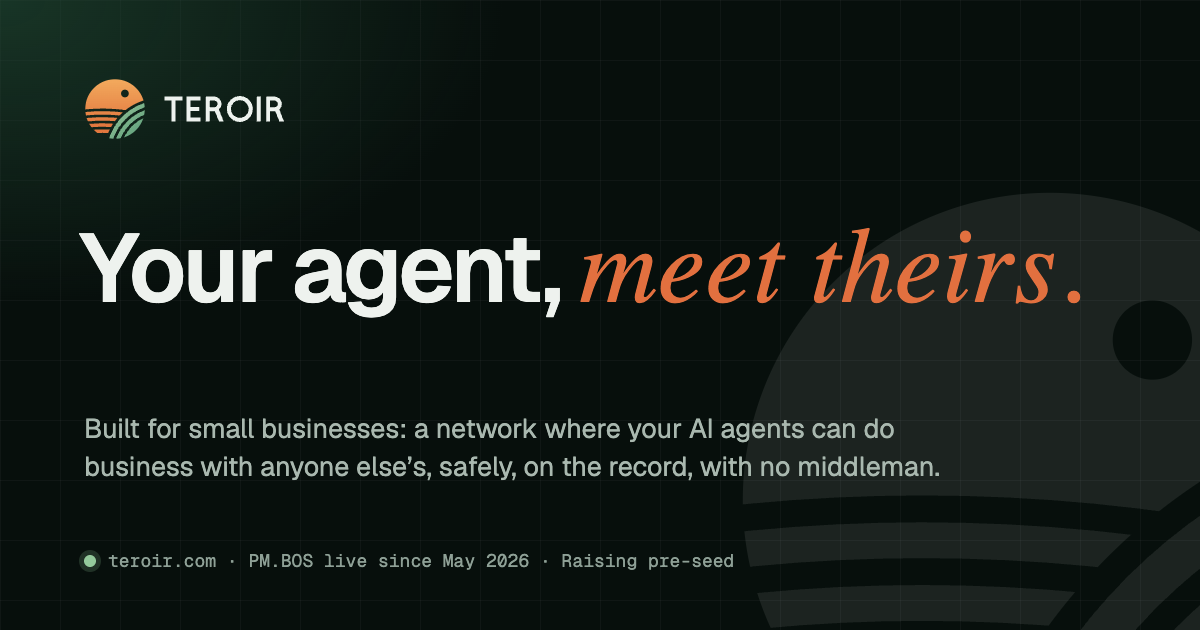
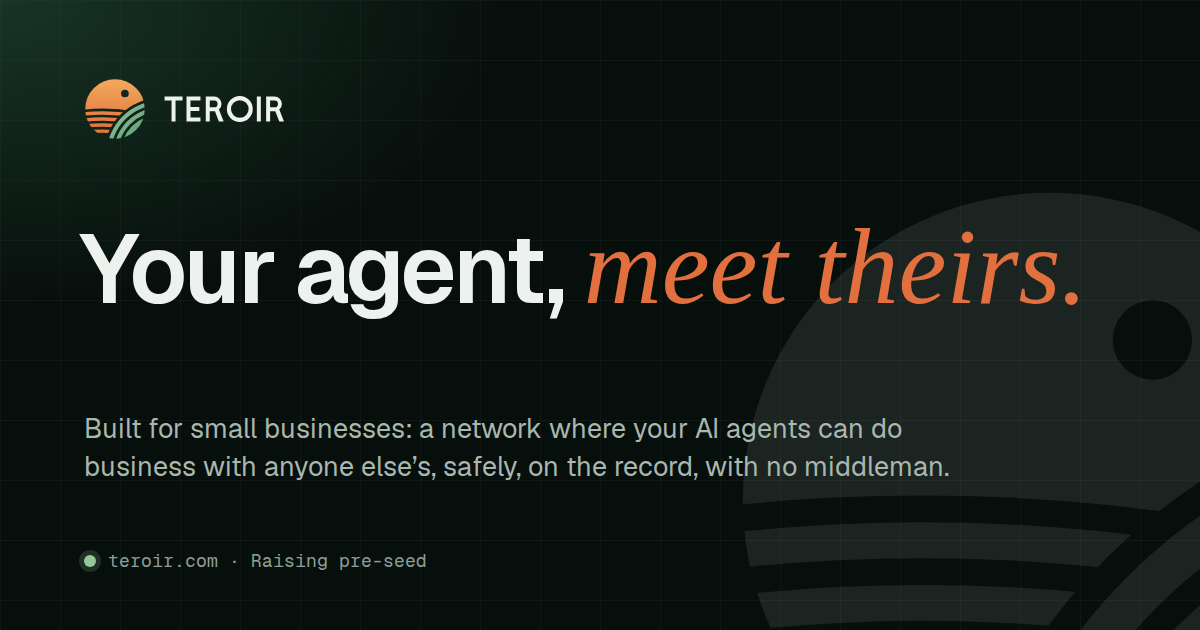
PM.BOS portfolio claims in past tense (owner-approved 11-18): ran a 218-room co-living portfolio in Houston and DFW from May to October 2026
- index, /talk, /property-management: present-tense 'has run / live since May 2026' replaced with the approved sentence
- /property-management: 'our first customer' -> 'our first project'
- stats: 'latest month' -> 'final month'; live-pulse dots removed from the date pills
- og.png share image: dropped 'PM.BOS live since May 2026'

Changed region(s): [[0.0925, 0.3619, 0.8942, 0.5127], [0.0617, 0.6635, 0.8017, 0.7841], [0.0925, 0.8746, 0.6167, 0.9048]]

diff --git a/index.html b/index.html
@@ -4,7 +4,7 @@
 <meta charset="utf-8">
 <meta name="viewport" content="width=device-width,initial-scale=1,viewport-fit=cover">
 <title>Teroir — AI systems built on real work</title>
-<meta name="description" content="Teroir builds AI systems for businesses and coaches people to use AI well. Our first system has run a 29-property, 218-room portfolio since May 2026, with no new hires.">
+<meta name="description" content="Teroir builds AI systems for businesses and coaches people to use AI well. PM.BOS ran a 218-room co-living portfolio in Houston and DFW from May to October 2026.">
 <meta name="theme-color" content="#F6F4EE">
 <meta name="color-scheme" content="light">
 <link rel="canonical" href="https://teroir.com/">
@@ -12,14 +12,14 @@
 <meta property="og:site_name" content="Teroir">
 <meta property="og:url" content="https://teroir.com/">
 <meta property="og:title" content="Teroir — AI systems built on real work">
-<meta property="og:description" content="Teroir builds AI systems for businesses and coaches people to use AI well. Our first system has run a 29-property, 218-room portfolio since May 2026, with no new hires.">
+<meta property="og:description" content="Teroir builds AI systems for businesses and coaches people to use AI well. PM.BOS ran a 218-room co-living portfolio in Houston and DFW from May to October 2026.">
 <meta property="og:image" content="https://teroir.com/og.png">
 <meta property="og:image:width" content="1200">
 <meta property="og:image:height" content="630">
 <meta property="og:image:alt" content="Teroir logo: a sun over terraced hills.">
 <meta name="twitter:card" content="summary_large_image">
 <meta name="twitter:title" content="Teroir — AI systems built on real work">
-<meta name="twitter:description" content="Teroir builds AI systems for businesses and coaches people to use AI well. Our first system has run a 29-property, 218-room portfolio since May 2026, with no new hires.">
+<meta name="twitter:description" content="Teroir builds AI systems for businesses and coaches people to use AI well. PM.BOS ran a 218-room co-living portfolio in Houston and DFW from May to October 2026.">
 <meta name="twitter:image" content="https://teroir.com/og.png">
 <link rel="icon" href="brand/favicon.svg" type="image/svg+xml">
 <link rel="icon" href="brand/favicon.png" type="image/png" sizes="32x32">
@@ -51,9 +51,9 @@
   <div class="hero-bg" aria-hidden="true"></div>
   <div class="wrap hero-in">
     <div class="hero-copy">
-      <a class="pill reveal" href="/property-management#proof"><span class="dot live"></span>Live since May 2026<span class="arrow" aria-hidden="true">→</span></a>
+      <a class="pill reveal" href="/property-management#proof">May to October 2026<span class="arrow" aria-hidden="true">→</span></a>
       <h1 class="reveal">AI that takes on the work <em>your team is stretched across.</em></h1>
-      <p class="lead reveal">Teroir builds AI systems for businesses and coaches people to use AI well. Our first system has run a 218-room property portfolio since May 2026, and the team grew it from 11 to 29 properties with no new hires.</p>
+      <p class="lead reveal">Teroir builds AI systems for businesses and coaches people to use AI well. PM.BOS ran a 218-room co-living portfolio in Houston and DFW from May to October 2026, and the team grew it from 11 to 29 properties with no new hires.</p>
       <div class="ctas reveal"><a class="btn btn-primary" href="/talk?for=business">Book a discovery call <span aria-hidden="true">→</span></a><a class="btn btn-ghost" href="#proof">See the results</a></div>
     </div>
   </div>
@@ -63,7 +63,7 @@
   <div class="wrap">
     <p class="eyebrow reveal">Our first project</p>
     <h2 id="proof-h" class="reveal">A co-living operator. <em>Same team, much bigger week.</em></h2>
-    <p class="sub reveal">29 properties and 218 rooms with shared kitchens and bathrooms. Since May 2026, the system we built has handled the operator's chores, tenant messages, maintenance requests and fines. We keep the client anonymous.</p>
+    <p class="sub reveal">PM.BOS ran a 218-room co-living portfolio in Houston and DFW from May to October 2026. Across 29 properties with shared kitchens and bathrooms, it handled the operator's chores, tenant messages, maintenance requests and fines. We keep the client anonymous.</p>
     <dl class="metrics reveal">
       <div class="metric">
         <dt>Properties, same team</dt>
@@ -83,7 +83,7 @@
       <div class="metric">
         <dt>Chore completion</dt>
         <dd><span class="num"><span class="from">63</span><span class="to-arrow" aria-label="rose to">→</span><span data-count="73" data-suffix="%">73%</span></span></dd>
-        <dd class="ctx">first month measured vs. latest month</dd>
+        <dd class="ctx">first month measured vs. final month</dd>
       </div>
     </dl>
     <p class="reveal"><a class="more" href="/property-management">Read the case study and watch the one-minute demo →</a></p>

diff --git a/property-management.html b/property-management.html
@@ -4,7 +4,7 @@
 <meta charset="utf-8">
 <meta name="viewport" content="width=device-width,initial-scale=1,viewport-fit=cover">
 <title>Case study: property management — Teroir</title>
-<meta name="description" content="Tenant messages, maintenance requests, chores and fines in one place. Live with a 29-property, 218-room co-living portfolio since May 2026.">
+<meta name="description" content="Tenant messages, maintenance requests, chores and fines in one place. PM.BOS ran a 218-room co-living portfolio in Houston and DFW from May to October 2026.">
 <meta name="theme-color" content="#F6F4EE">
 <meta name="color-scheme" content="light">
 <link rel="canonical" href="https://teroir.com/property-management">
@@ -12,14 +12,14 @@
 <meta property="og:site_name" content="Teroir">
 <meta property="og:url" content="https://teroir.com/property-management">
 <meta property="og:title" content="Case study: property management — Teroir">
-<meta property="og:description" content="Tenant messages, maintenance requests, chores and fines in one place. Live with a 29-property, 218-room co-living portfolio since May 2026.">
+<meta property="og:description" content="Tenant messages, maintenance requests, chores and fines in one place. PM.BOS ran a 218-room co-living portfolio in Houston and DFW from May to October 2026.">
 <meta property="og:image" content="https://teroir.com/og-demo.png">
 <meta property="og:image:width" content="1200">
 <meta property="og:image:height" content="630">
 <meta property="og:image:alt" content="Teroir's Housekeeping assistant answering a question, with a play button.">
 <meta name="twitter:card" content="summary_large_image">
 <meta name="twitter:title" content="Case study: property management — Teroir">
-<meta name="twitter:description" content="Tenant messages, maintenance requests, chores and fines in one place. Live with a 29-property, 218-room co-living portfolio since May 2026.">
+<meta name="twitter:description" content="Tenant messages, maintenance requests, chores and fines in one place. PM.BOS ran a 218-room co-living portfolio in Houston and DFW from May to October 2026.">
 <meta name="twitter:image" content="https://teroir.com/og-demo.png">
 <link rel="icon" href="brand/favicon.svg" type="image/svg+xml">
 <link rel="icon" href="brand/favicon.png" type="image/png" sizes="32x32">
@@ -50,9 +50,9 @@
   <div class="hero-bg" aria-hidden="true"></div>
   <div class="wrap hero-in">
     <div class="hero-copy">
-      <a class="pill reveal" href="#proof"><span class="dot live"></span>Case study · live since May 2026<span class="arrow" aria-hidden="true">→</span></a>
+      <a class="pill reveal" href="#proof">Case study · May to October 2026<span class="arrow" aria-hidden="true">→</span></a>
       <h1 class="reveal">Your tenants text. <em>The system picks it up.</em></h1>
-      <p class="lead reveal">Our first project: an AI operations system for a co-living property operator. Tenant messages, maintenance requests, chores, reminders and fines, in one place, live since May 2026.</p>
+      <p class="lead reveal">Our first project: an AI operations system for a co-living property operator. Tenant messages, maintenance requests, chores, reminders and fines, in one place. PM.BOS ran a 218-room co-living portfolio in Houston and DFW from May to October 2026.</p>
       <div class="ctas reveal"><a class="btn btn-primary" href="/apply">Apply for the beta <span aria-hidden="true">→</span></a><a class="btn btn-ghost" href="#demo">Watch the demo <span class="muted-in">1:01</span></a></div>
     </div>
   </div>
@@ -61,7 +61,7 @@
   <div class="wrap">
     <p class="eyebrow reveal">The numbers</p>
     <h2 id="proof-h" class="reveal">Same team. <em>Much bigger week.</em></h2>
-    <p class="sub reveal">Our first customer is a 29-property, 218-room co-living portfolio, where tenants share kitchens and bathrooms. Since May 2026 the system has handled its chores, tenant messages, maintenance requests and fines.</p>
+    <p class="sub reveal">Our first project: PM.BOS ran a 218-room co-living portfolio in Houston and DFW from May to October 2026. Across 29 properties where tenants share kitchens and bathrooms, it handled the chores, tenant messages, maintenance requests and fines.</p>
 
     <dl class="metrics reveal">
       <div class="metric">
@@ -82,7 +82,7 @@
       <div class="metric">
         <dt>Chore completion</dt>
         <dd><span class="num"><span class="from">63</span><span class="to-arrow" aria-label="rose to">→</span><span data-count="73" data-suffix="%">73%</span></span></dd>
-        <dd class="ctx">first month measured vs. latest month</dd>
+        <dd class="ctx">first month measured vs. final month</dd>
       </div>
     </dl>
 

diff --git a/talk.html b/talk.html
@@ -53,7 +53,7 @@
       <span class="cta-k">Talk to us</span>
       <div class="talk-who"><img class="founder-pic" src="wyatt-avatar.png" alt="Wyatt Horton" width="56" height="56"><p><b>Wyatt Horton</b><span>Founder &amp; CEO, Teroir</span></p></div>
       <h1 id="talk-h">Let's <em>talk.</em></h1>
-      <p class="cta-lead">Teroir's first AI system has run a 218-room property portfolio since May 2026; the team grew it from 11 to 29 properties with no new hires. <a class="more" href="/property-management#demo">Watch the one-minute demo</a></p>
+      <p class="cta-lead">PM.BOS ran a 218-room co-living portfolio in Houston and DFW from May to October 2026; the team grew it from 11 to 29 properties with no new hires. <a class="more" href="/property-management#demo">Watch the one-minute demo</a></p>
       <form class="wl" id="wl-form" action="/api/waitlist" method="post" data-ok-business="Got it. Now pick a time below." data-ok-coaching="Got it. Now pick a time below." data-ok-newsletter="You're subscribed. Watch your inbox.">
         <fieldset class="wl-pick">
           <legend class="vh">What would you like?</legend>

diff --git a/scripts/og.html b/scripts/og.html
@@ -22,5 +22,5 @@ p{position:absolute;left:84px;top:410px;width:900px;font-size:27px;line-height:1
 <img class="logo" src="../brand/logo-on-dark.svg" alt="Teroir">
 <h1>Your agent, <em>meet theirs.</em></h1>
 <p>Built for small businesses: a network where your AI agents can do business with anyone else’s, safely, on the record, with no middleman.</p>
-<div class="foot"><i></i>teroir.com · PM.BOS live since May 2026 · Raising pre-seed</div>
+<div class="foot"><i></i>teroir.com · Raising pre-seed</div>
 </body></html>
